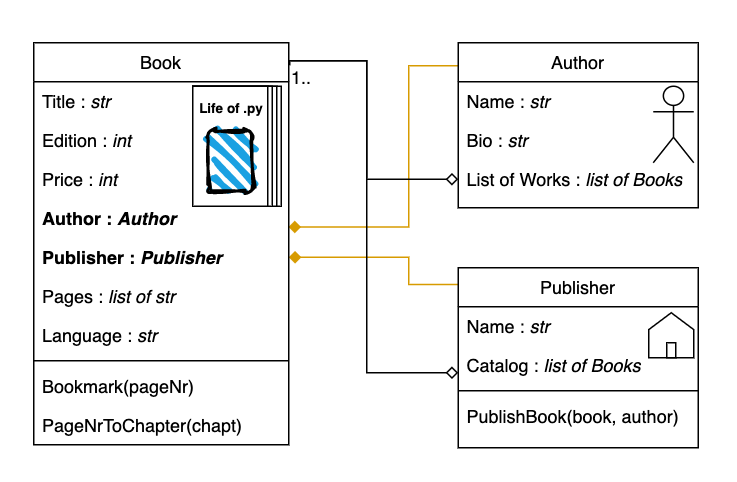
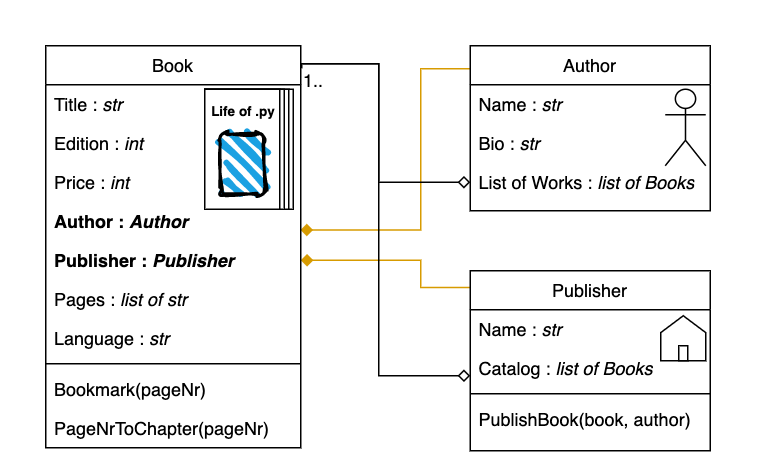
fixed parameter name

Changed region(s): [[0.0312, 0.06, 0.9674, 0.9893]]

diff --git a/README.md b/README.md
@@ -1,3 +1,3 @@
 ![](image.png)
 
-[viewer.diagrams.net](https://viewer.diagrams.net/?highlight=0000ff&edit=_blank&layers=1&nav=1&title=w02d01_homework.drawio#R7Vxbd9o4EP41nNN9gGP5Bn4MJO1e2JxsL5v2UWABOjEWtUUT8utXsiVjWb6RYMi25HBaNJbH1synTzNjmZ41WT99iOBm9TfxUdAzDf%2BpZ133TNM1zR7%2FGP4uFTgeSAXLCPupKCf4hJ%2BREBpCusU%2BipWOlJCA4o0qnJMwRHOqyGAUkUe124IE6lU3cIk0wac5DHTpPfbpKpWOzOFe%2FjvCy5W8MnC99Mgays5iJPEK%2BuQxJ7JuetYkIoSm39ZPExRw20m73P%2Bxuw%2BmD%2B6HP%2F%2BJv8Mv478%2B3%2F7bT5W9P%2BSUbAgRCumLVV%2Btpr775au9ut4h69uX9Y%2FnW6vvuqnuHzDYCoOJwdKdtCAK%2FSvuCNYKSciE48wSBm%2FQiDxktgVMEpFt6CNfHGenv8fsTkTLZ94RulEwI483e8E4EbADKxLhZxJSGHDhE6Zf%2BdkDz%2FNE%2B1vSHpq2aF8%2FSfW8scs17lCE14iiKLsbGu1SdYbhSUGqD1iZYK8wae3yraLKmMKISgv5GK5J6EuxGDm3yoJ9nZCARIlVrcUCufN5Zr%2FcEX%2FozQyuOPUEt1gByg04EP1iso3mqMb5jiPmI4yWiNZ0tEYZ3BlNIMJGH%2B3YiYIjjIFQJCjCFjcQoQBS%2FEO9eyjm8zJTk2m%2BI5iNK1NrOYaiNpuIUkU6QHFWHvkFRfZwVK8oNUCzor6t3pFlqnrIYhEjRQWDBdzlemy4wrh6zHbhCubQqb0jyyvckWPUm8IojkDRz76kdyxbOXfvRQmxHEAyQ%2BPtk4ykhT7nBaDyguFZvxYvDFvygm2fhRdcjy8F%2Bz%2F1IqPhwLGs4tGDOcMFA9fY%2F5nqRaz%2FDYPYhlU%2FUMAWPlc9xbEHQ5AbvF2vwdQ1mF6Nho5Yxn77LCNDGSWMcWqDmBYscgpOSOfuyad6YbkyjReGAJZbXFcLE%2B8NTWCgco0FlCW9o8njaJMHDAba%2FIlQjJ%2FhLGly1MEAL0P2PUALBrLxDxRRzFKvKyGeEUrJmh0I4AwFYzh%2FWCYTSi5qYg4u2PwQiSMbu8SySAjF1XpZ0MYvgp4qUV7DDZXo7R8HrX0ALMV1fcdrQsexHDg6LMbaE8mKrmUkkic0EtEVWZIQBnlWK9ChoDMw4ASfpzTDcV%2BQmfkn5DM5b18c4zzuiwkyT1nl6ghS9kpIFVfzLCc6PAcqKBq1i2AOZS%2FLBaVEWx1%2BmK%2Fqb49OwI4jq3lysUBiw79u18HVnHJ6y%2BhwytnvjsSYYqLQYpEvKdmoM5JsaYBDlgTI2th%2BajTQYPXkqGRB11DZyxwJ9spBXZbNFKjXoFqhuUPNDowWducryqbSJFWLyKtNVQiy5TTNmcoqYYVi2nA0U4309bsSoWwRuoNLCaoEqY8rTNGnDUwo8zGCBRhGhEKB3T4YtcZgnVNrCfW0pvOaTaeuew3W6sA2Uk%2BBK3mtwtCyrLwlXd2QoHiW2ZFh5RKbM%2ByYkAcdl494HcB9JCiO5OPLObMbiioZc77CgT%2BFO0aXTMZSo%2FmDbI3zCVjiniRzEuGm6So9PvEzxaWTUBfdSZeBTDSFsWTiOQkCuIlxyi68y5qtojgcC4JPFSnYacg3u%2BJ2UKgTmq5OWGBYMu1Md9QYs3zkDBsumRGy62XTVVwPlBAkcEuvp14OBszxIaRozM0Ya6A8wupu6avMZ0yT0fSsK%2F6v6QYcSph9WdLUb%2BwrXHPshbN4kzgu7cPuIOumIZ05lTZnTSmmY8YvOFxOkz7X9l7yURiLiwg7dxGkhQbs%2ByiUZJ3L0UTExm7AGbMPG82EZ%2BsOu6EJa4N9m31494iypYENEeIEcIjh%2FRHF9Fgkl9KCjtSdCoBmYHZFW3od6cZPQ7dKQCQh6i8IiBpuOwVWHPPcWNHDrrsIz2uoozVSUhlzcViUsX5l4lZdL%2Fg7Jv7kc8Wz4c%2FR8Xe1pSygqQagPH5hqwq05GNQ0Bl0QEmwfmLsDHXu2s4CHK9QDXxyXS4IOi%2BCrNYhfFcI0jNnXliIq9HDoMNreWSRwOKCoTOsWcA5d4A90usCU5Y%2BbvlGvkvK9cbQIp11vhC7xQ5FXiNXDaJXVhoQsGa%2BTB5xCZd%2F5oi47gMNFpYOC6sEAkGh5h%2BlfQvQaPJ%2Bd1m20TJ0ran%2BvM6tevTBi4NrGD2843tyb6Pffrq53J03wdk5HWjuvEu8%2BJlMVnBDUfRuzv%2B%2FOLW9U%2B1zU6%2BtV8Jy4f%2Blit87dRXfHqpPaG3QsqoOijuef74qvq2XQm7h%2BhJRdlPEr9oVU1PEb4OT41GXHjVOmEEDsmyXnPJYJP4l4dF1wtGAnLKS%2FmmRM7rkG8d3a1mlvMytXaUbdkmpKg1l%2BEx%2FN0v2JUz4lZPy%2BCVMbe3Z0bmp3tInrHzGcQlRzx6ilm40KQ1RwU8folo6CV1C1O72mVS8tPpWQlRHz67HmFzAcPIKeD1Ozh%2BQ6qW1aS5TuSfRQ8snbjKpuWCmY8y0jXY7w0y2u%2BDN7Zw3PfVN0bKXDORzZSUx6Gr7t9di53yHG75bvF10Umu0eNp2XmuU7Gjvzhr6Q6o3Zg3rlNZoURk5rzXKCgpdWQPIV4DavTfCR99gHDVJ4y%2FC8p%2BGuEe5ZXQF56tthD7wU69He8FVkhSxPk5P%2B0EJMIMAcW3xA6Lzg%2FK%2Fwzwh9RReNGz3ZpTdnZ%2F0%2BEnGQLwKoDjM%2Fb4l8kA%2FTlJ3HlV5m6c02haHZdw0xQskg6vBZpcLrVLN9dGV5vria9E5PwpRY5kiKyuWYU2NinJvXXu9o21aa0SHAg59D2TZHK57eFWBDdbc%2FzBXmr%2Fvf93MuvkP)
+[viewer.diagrams.net](https://viewer.diagrams.net/?highlight=0000ff&edit=_blank&layers=1&nav=1&title=diagram.drawio#R7Vxtc5s4EP41nul9sAchwPhj7LS5F18ubdpL%2B1E2sq0JRi7ITZxffxJIGCGMcWLiXOtOpoMWsaDdR492F%2BEOHC0fr2K0WvxNAxx2bCt47MDLjm27A8j%2FF4KNFDh2JpjHJMhEYCu4JU9YCi0pXZMAJ1pHRmnIyEoXTmkU4SnTZCiO6YPebUZD%2Fa4rNMeG4HaKQlN6RwK2yKS%2B3d%2FKf8dkvlB3Bt4gO7NEqrMcSbJAAX0oiOD7DhzFlLLsaPk4wqGwnbLL3R%2Bbu3B87139%2BTH5jr4M%2F%2Fp8%2FW83U%2FbhkEvyIcQ4Ys9WfbEYB96Xr87icoPhty%2FLH0%2FXsOt5me4fKFxLg8nBso2yII6CC%2BEI3opoxIXD3BKWaLCY3ue2BVwS03UU4ECe55d%2FIPxJZCvg3pG6cTihD%2B%2B3gmEq4CcWNCZPNGIoFMJHwr6Kq3uDwUC2v6Xtvu3I9uWjUi8am0LjBsdkiRmO86dh8SZTZ1kDJcj0AZgLtgrT1qbYKqtMGIqZslBA0JJGgRLLkQurzPjhiIY0Tq0KZzPsTae5%2FQpngv5gYgnFDd0u4ZHQdTzFNb52XTn9UDzHrKYj9LOOwleFSSRhdYUpH3284R0kR1g9qVlShCOfKMYhYuSHPhGRnM%2FzXE2u%2BYYSPtBcLXQtTW0%2BEZWKbMTyqiLyS4qcvl%2BvKLPIfkVdR38iaOt66GyWYE0FhwXaFHqshMJk95id0h3svlv7RHBQeiLXqjeFVR6Bpp8fZE%2BsWgV3b0UpsRxAMn3r7ZOMooWu4AWg84LF18CfmRf6DXnBcd4GL3gDsRRs%2F%2Bk38fs9F8Ly2YM5wwM9z9r%2Bs%2FWbwP8NgzgWrB8o4Aufp1%2FiOr0%2BKAzeqddgmxrsQY2GlljGefsso0IZLYxxa4OYBizSAieoqXrqqV5armzrmSEA9MrramnivaEJDHSugUBb0luaPK4xeUCvZ8yfGCfkCU3SpkAdCsk84schnnHUDX%2FgmBGeel1I8YQyRpf8RIgmOByi6f08nVBqUZNzcMbnh0wc%2BdirsFw74WXmKB%2Brk0d34mnwYxP0do%2BD1i4AUHNd1x3sQ8exHOgfFmNtiWTBlioSKRIajdmCzmmEwiKrlehQ0hnoCYIvUprles%2FIzIL2%2BExN0%2BPFOA%2FbYoLKUxaFOoKSvRBS5dU8z4kOz4FKivxmEcyh7AU9UEm0u8MP%2B0X9Hf8V2NGH%2BycXDyRW4nC9DC%2BmTNBbTodjwX43NCGMUI0Wy3zJ6EqfkXTNQhLxJEDVxg6fGs1Z0LN09rJ9yV4FqKuymQb1GlRrNHeo2YHVwO5iRVm90CS71pAaU5WCbDVNC6aCFaxQThuOZirfXL93IpQvQjdorkCVIvVhQRi%2BXaGUQx9iVIJhTBmS2O0CvxqDezy4H4UnM91gv%2Bn0dW%2BPtVqwjTpb4kpRq7CMLKtoSc80JChfZbdkWLXmFgw7pPTexOUDWYZoGwnKM8X4cspNieOdjDldkDAYow2nSy7jqdH0XrWGxQQsdU%2BaOclw0%2Fa0HrfiSnnrNNTFN8qLIBeNUaKYeErDEK0SkrGG6LLkqyiJhpLgM0Uadvbkm21xOyjVCW3PJCzQr5h2tufvjVk%2BCeaM5twI%2Bf3y6SrvByoIEniV99Nvh0Lu%2BAgxPBRmTAxQHmF1h%2BYq85mwdDQdeCH%2Bt71QQInwgznL%2FMYP0VJgL5okq9RxWR%2F%2BBHk3A%2BncWWx%2F1pRhOuH8QqL5OO1z6Wwln6SxhIjya2dhVmggQYAjRdaFHE1GbPwB3CH%2F46MZiWzd5Q804m2wbfM%2F0T1mfGngQ0QkxSDmeH%2FACXsWyeUcsB%2BpGx0A%2B4HZFm2ZdaT3QRa67QREGqL%2BgoCo4bbXwIprnxorZth1E5NpDXU0Rkom4y6OyjLer0rcqOsZf8fEn3qveDL8uSb%2BLtaMBzS7AajOn9lqB1qKMWjFzosjQQdUBOuvjJ2%2ByV3rSUiSBa6BT6HLGUGnRRBsHMK3hSAzcxaFhWQ3ejh0RC2PzlJYnDF0gjULuKcOsH2zLjDm6eNabOQ7p1xvDC3KWacLsRvsUBQ1ct0gZmVlDwKW3JfpKy7p8s8CEZddYMACmrCAFRAISzX%2FOOtbgsY%2B77eXZVsNQ9ea6s%2FL3GpGH6I4uETx%2FTuxJ%2Fc6%2Fu2nm8vteROcnNOB4c6b1Iuf6WiBVgzHZ68e7FXn1NzrmKWwQvx%2FLuN3XruM7%2FT1V7QOaFhWB%2BUtzz9fGd8xayHXaHkOKY9Qxc954EVV%2FCY4OR51mWHjiBs0pPNm2akIRpJfEh5HzTgOR05VTf91keOfE47ju7WqVF7l1rbyDaeiVpWFMmKmv5ukGxNG4s5pffyXDVMP96x%2FaqqH5oRVLznOIerJQ9TKnSaVISr46UNUaJLQOUQ90kYTvzFQ30qI6prZ9ZDQMxjaLYEfjJPTB6RmbW1cyFTuaHzf8JWbSmrOmGkZM02j3dYwk28veHNb5%2B2B%2Fqlo1VcG6sWylhi0tf970GDr%2FLF2fDcPrk9mjQav205rjYot7e1Zw3xL9casAV%2FTGg0qI6e1RlVBoS1rAPUNULMPR8To9xhHT9LEl7DityHucGEZXaDpYh3jK3Hppb8VXKRJEe%2FjdoxflAATBLDQltxjNt2d%2F73YE%2Bps6UvDZp9GOe35yYyfVAwkqgCaw7zva6pOdJM0dRdR1WD1mEXb8rSKm8ZkhlVw1VttCqFVprk%2BujJcX%2F4uuuBHKdpbpsjLilVY06OiwmfXg87zdq09Bx0aOMxNkFVzuO7lVVNszOHVP%2FRL9IndXk8uwo%2Bzx6d1t3vQDG7w6RcVgS9TXznvDJmaRVu7TVj%2BMYOKKeaCCjvCuhLLDkPy5vYnzrJCyPZ34uD7%2FwA%3D)
